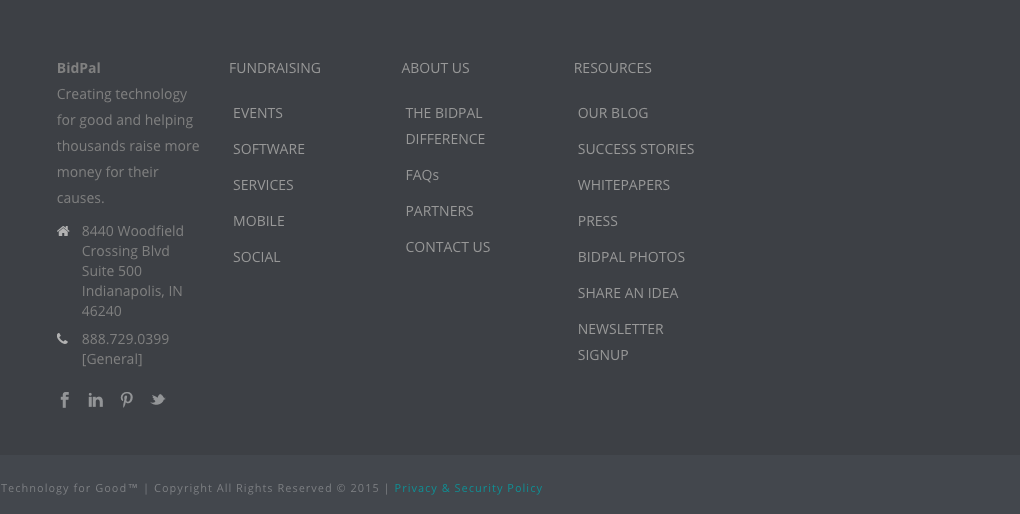
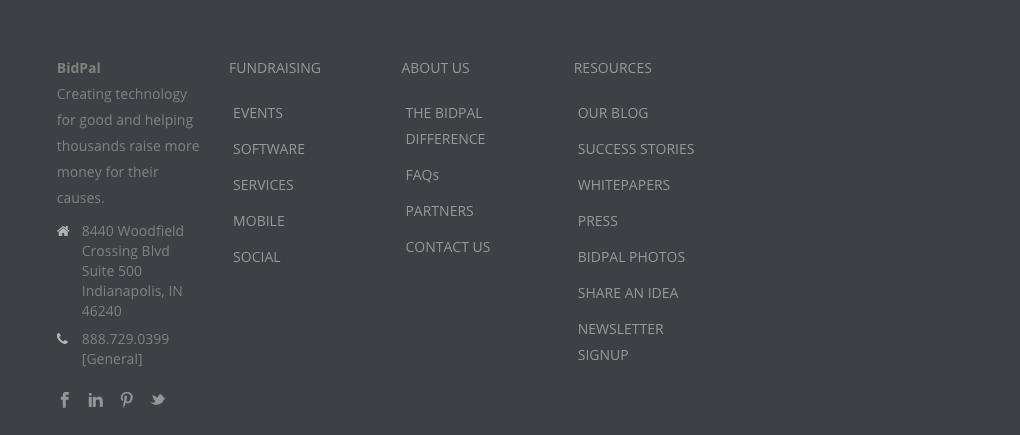
WHITE_BidPal

diff --git a/web/css/whitelabel/bidpal.css b/web/css/whitelabel/bidpal.css
@@ -201,20 +201,18 @@ header .nav li a:hover {
 /*-----END DEFAULT CONTENT-----*/
 
 footer {
-	background: #1670ae;
+	background: #3d4045;
 	position: absolute;
 	left: 0;
 	bottom: 0;
-	height: 360px;
+	height: 435px;
 	width: 100%;
 
 }
 
 footer .c-wrap {
-    padding:15px;
+    padding:0px;
 }
 
 footer .footerPanel {
-    width: 100%;
-    height: 330px;
 }
